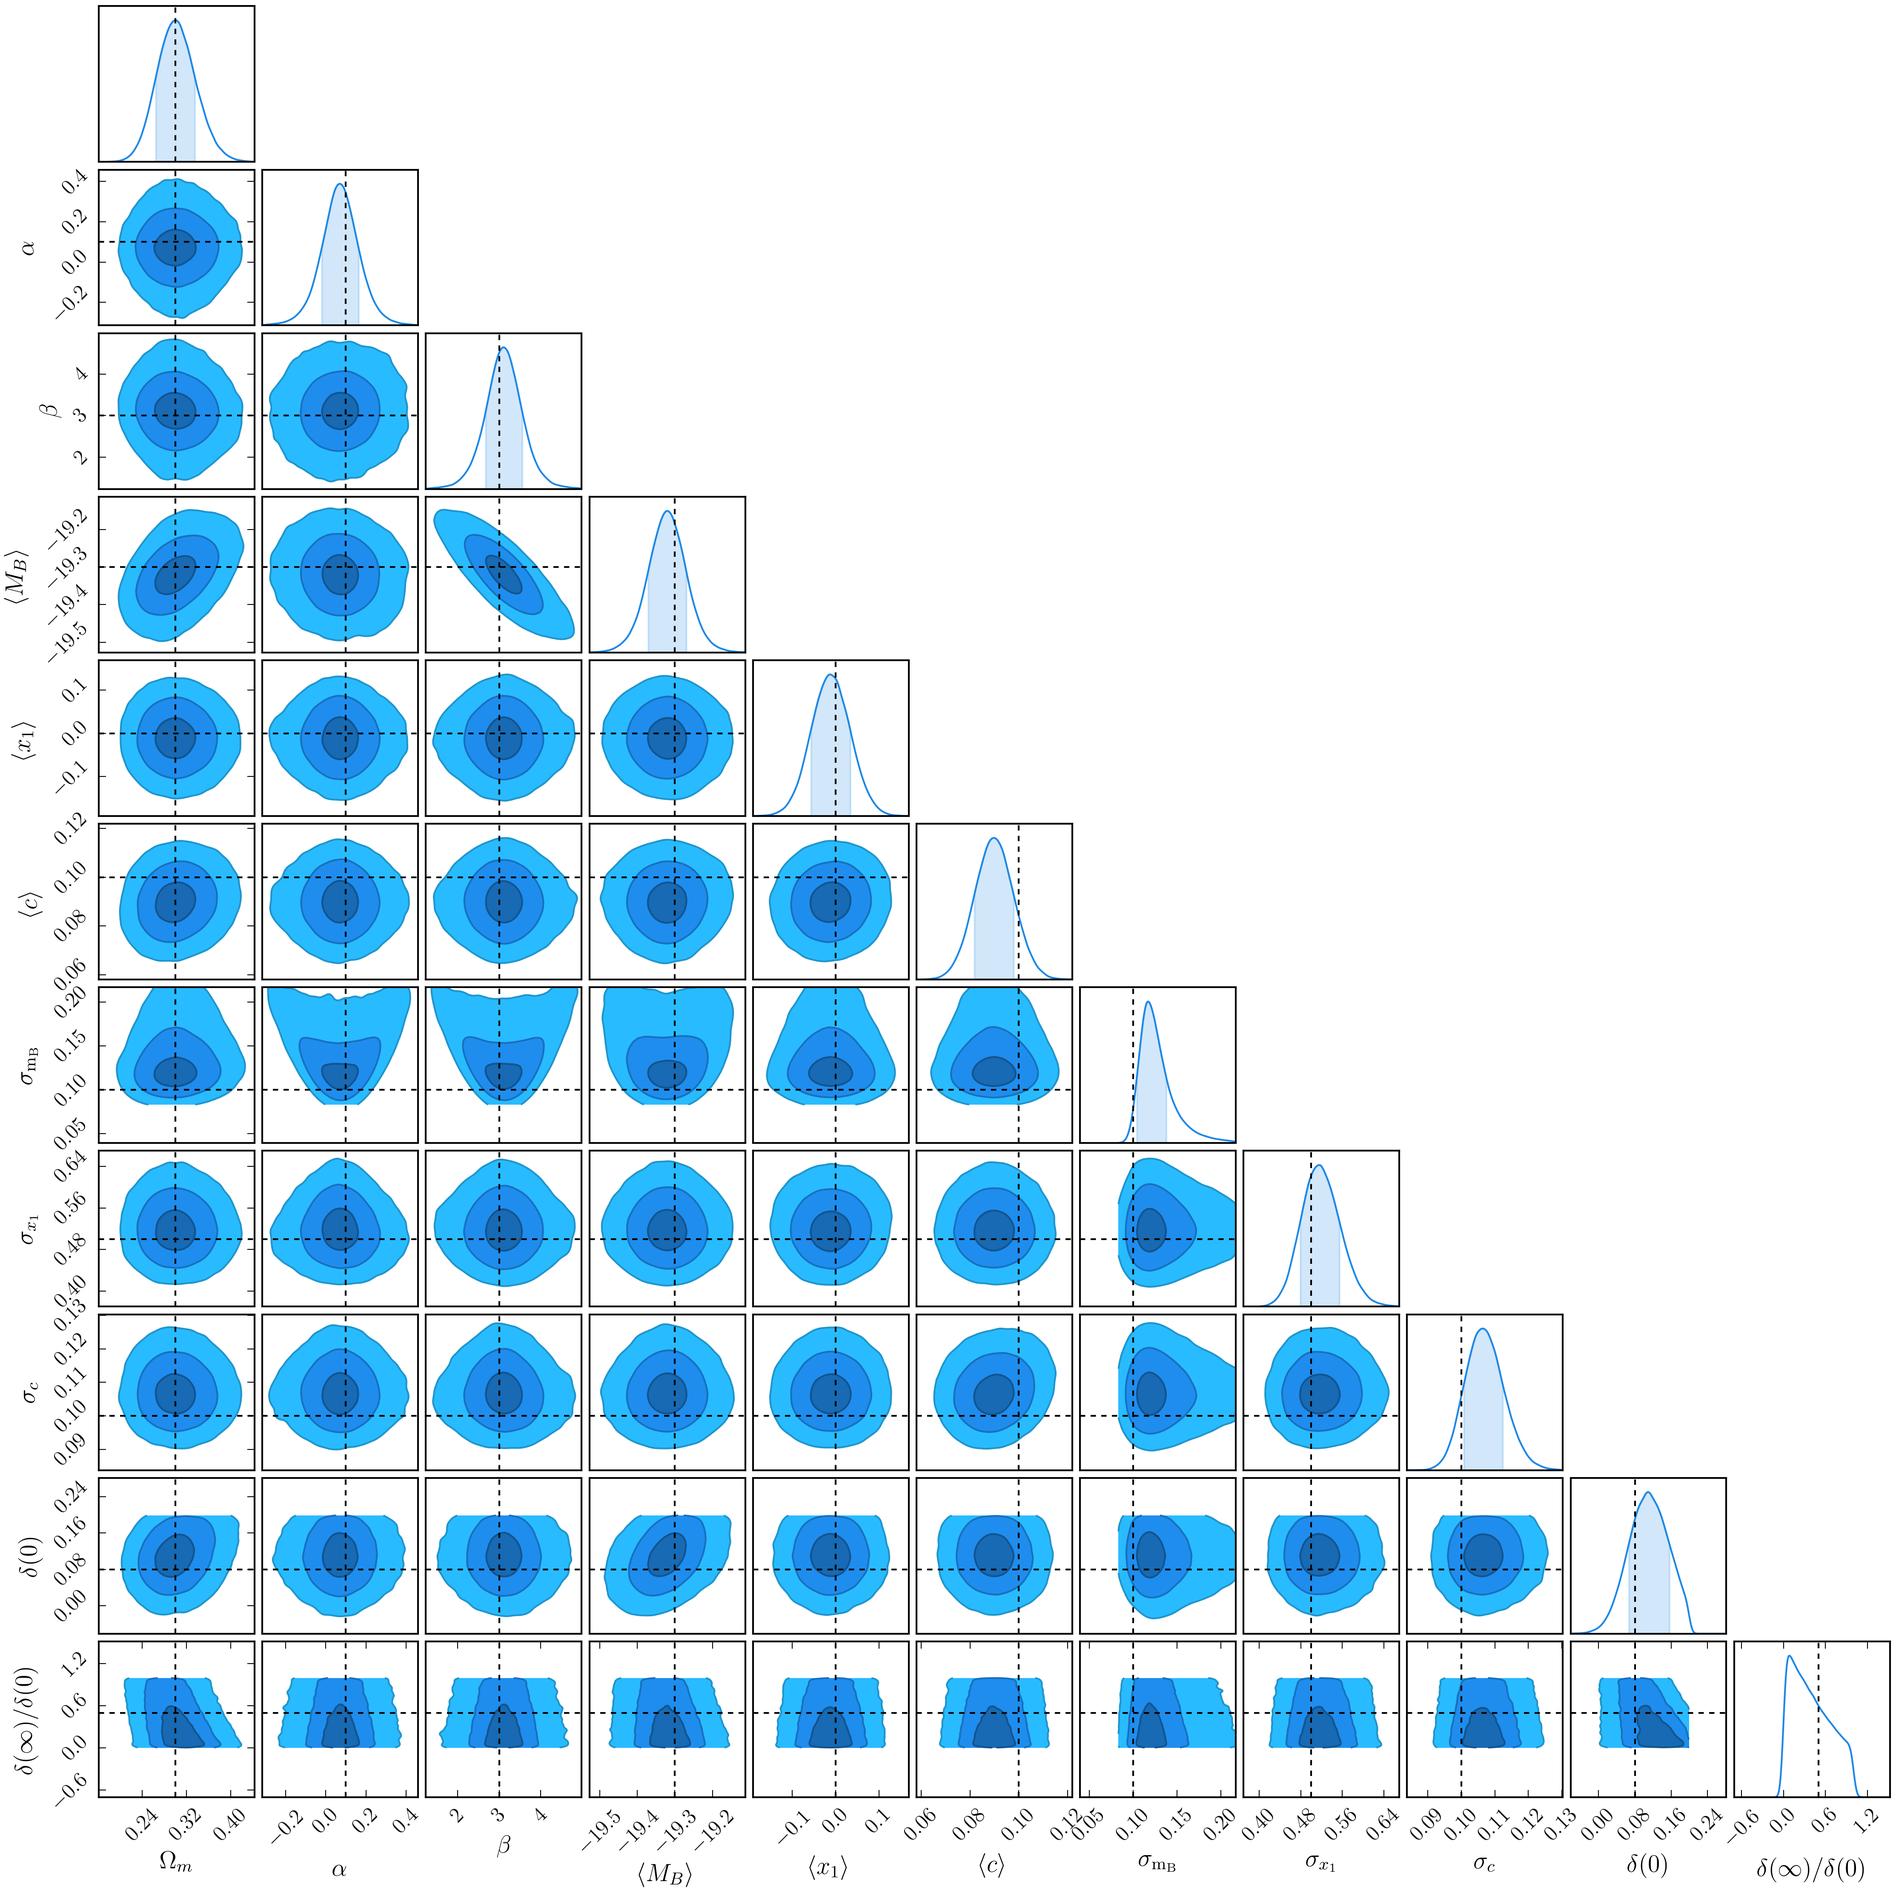
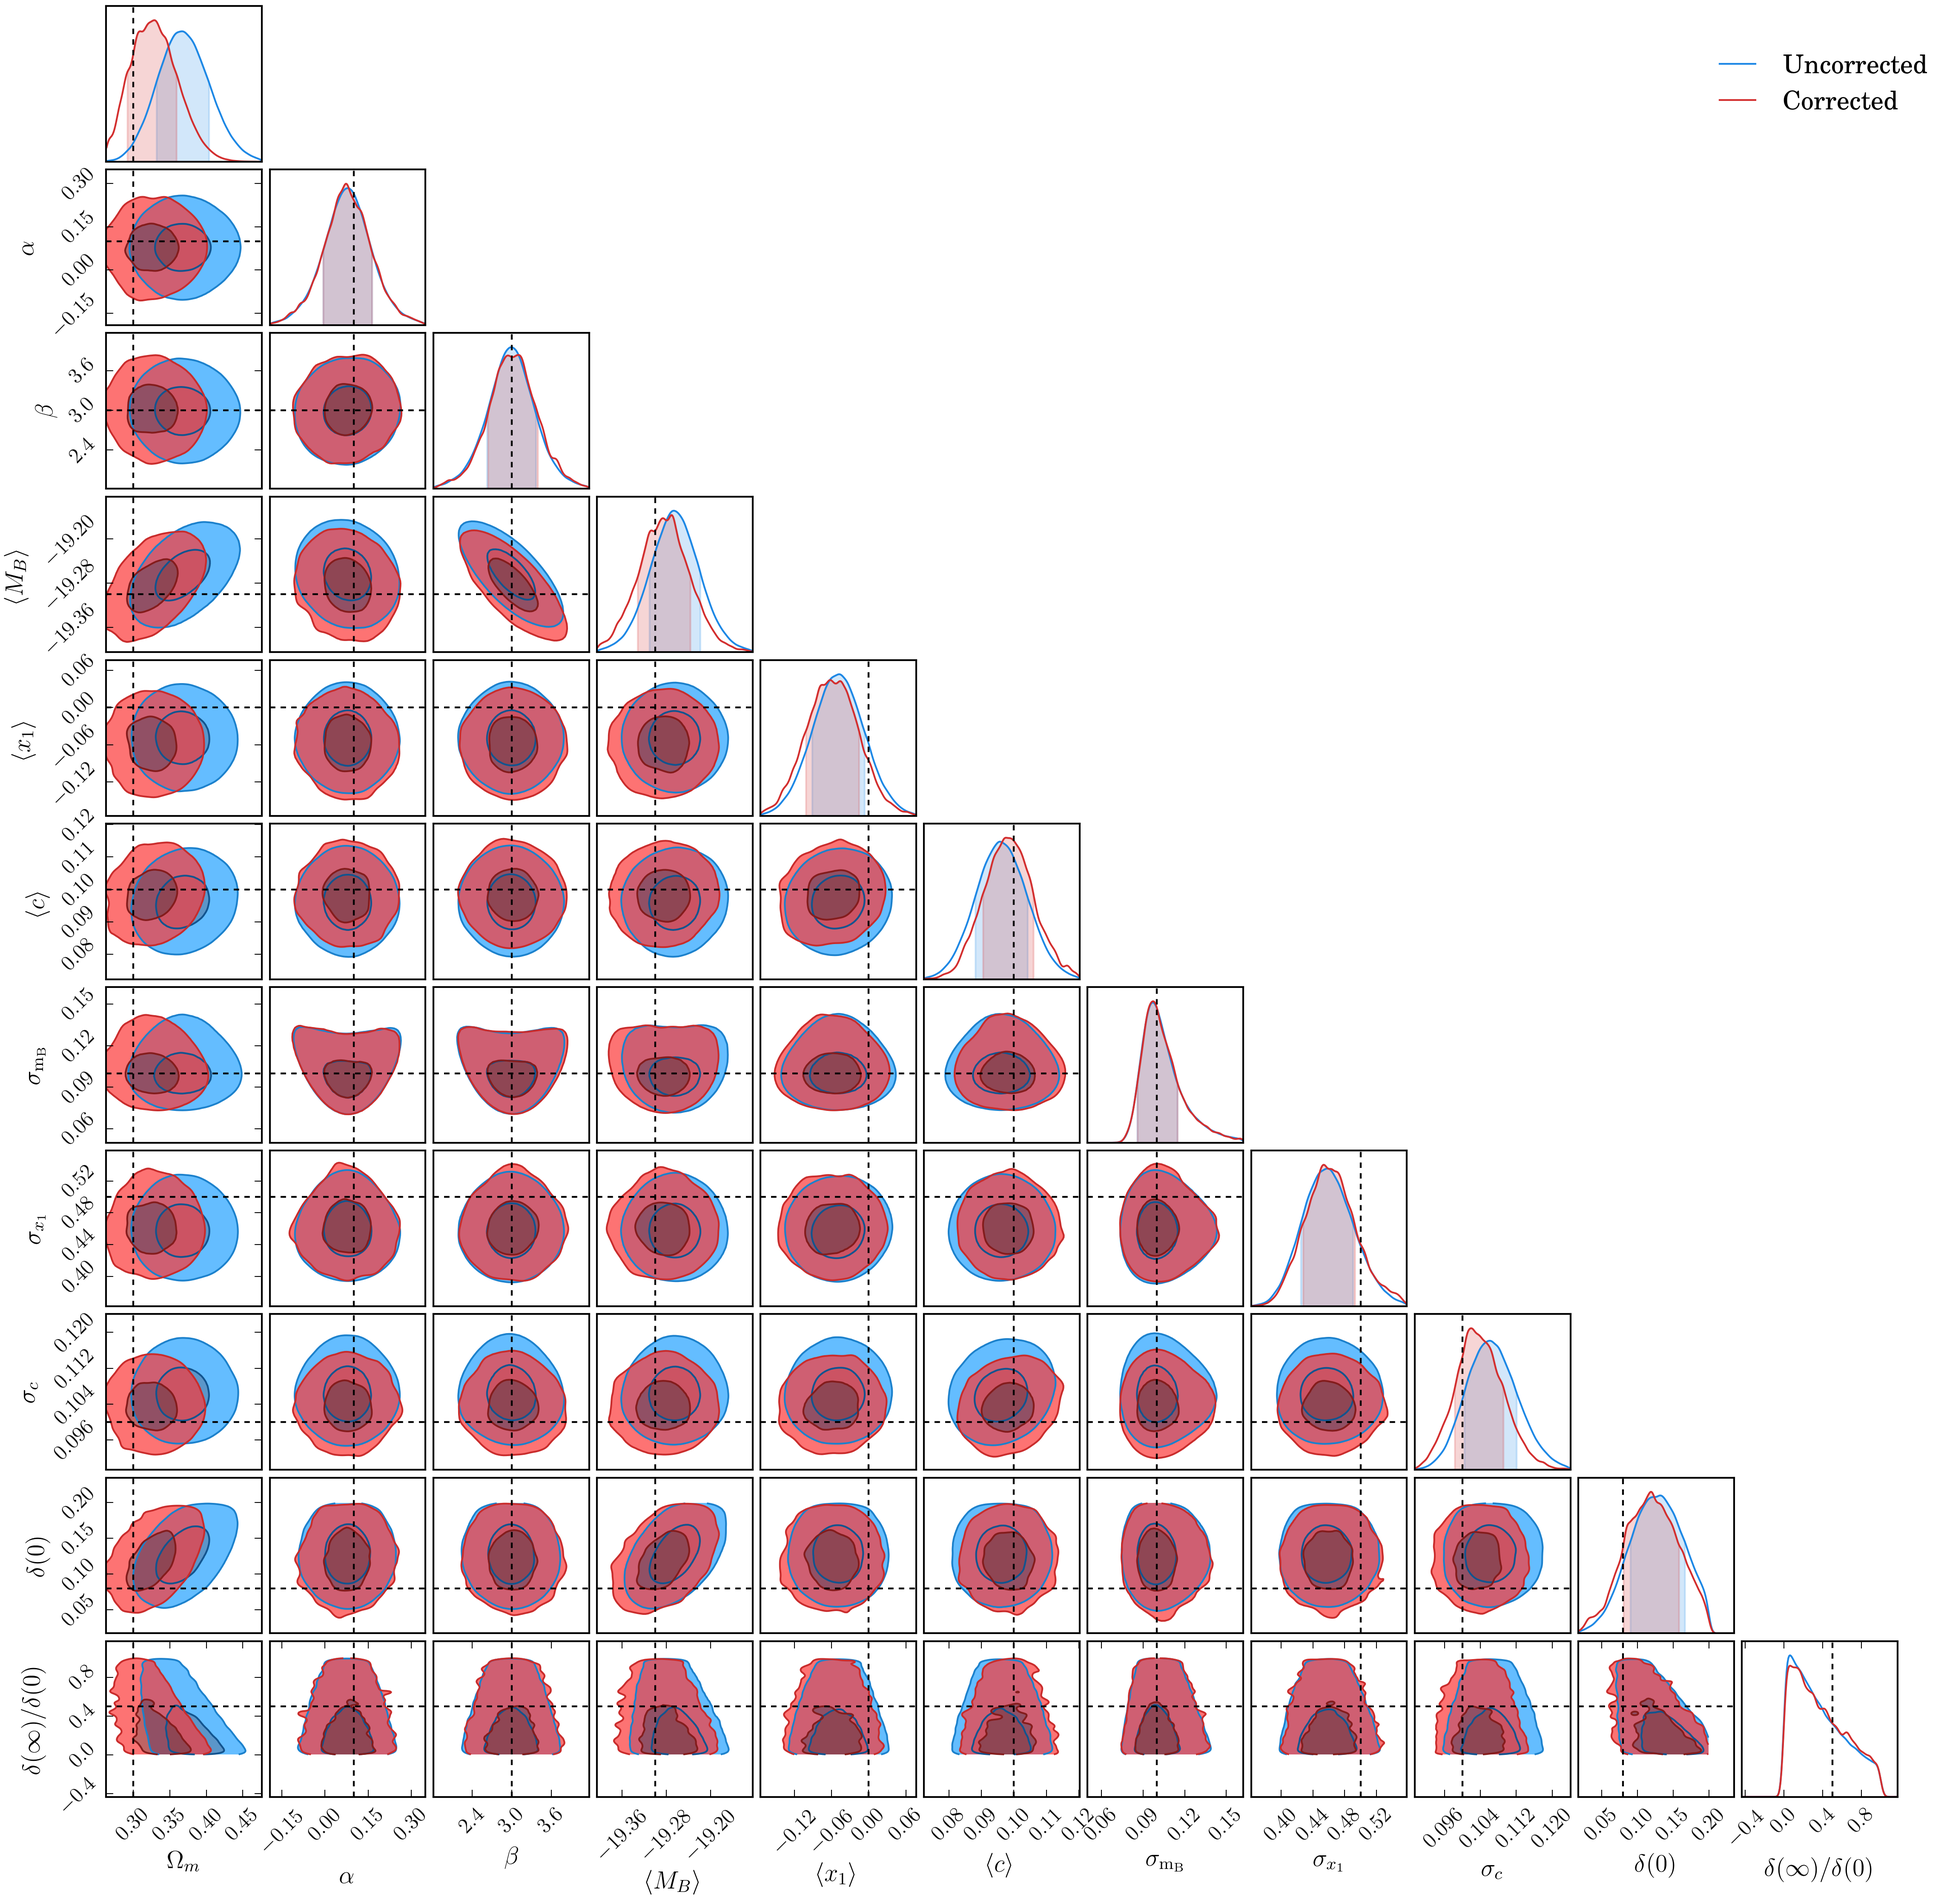
Updating for multiple cosmologies

Changed region(s): [[0.0, 0.0, 0.9987, 0.9987], [0.905, 0.0312, 0.9987, 0.0624]]

diff --git a/dessn/models/d_simple_stan/approx/load_multiple.py b/dessn/models/d_simple_stan/approx/load_multiple.py
@@ -44,7 +44,7 @@ def load_stan_from_folder(folder, replace=True):
     truths = {k[2]: k[1] for k in vals if not isinstance(k[2], list)}
 
     cs = {}
-    fs = [f for f in os.listdir(folder) if f.startswith("ston") and f.endswith(".pkl")]
+    fs = sorted([f for f in os.listdir(folder) if f.startswith("ston") and f.endswith(".pkl")])
     for f in fs:
         splits = f.split("_")
         c = splits[1]
@@ -54,7 +54,8 @@ def load_stan_from_folder(folder, replace=True):
         cs[c].append(get_chain(t, name_map, replace=replace))
     assert len(cs.keys()) > 0, "No results found"
     result = []
-    for k, chains in cs.items():
+    for k in sorted(list(cs.keys())):
+        chains = cs[k]
         chain = chains[0]
         for c in chains[1:]:
             for key in chain.keys():
@@ -83,9 +84,10 @@ if __name__ == "__main__":
     ls = []
     cs = []
     for i, (chain, posterior, truths, params, full_params, num_walks, bias, w) in enumerate(results):
+        if i == 5: continue
         print(w.mean(), w.max(), w.min())
-        c.add_chain(chain, posterior=posterior, walkers=num_walks, name="Uncorrected")
-        c.add_chain(chain, posterior=posterior, walkers=num_walks, weights=w, name="Corrected")
+        c.add_chain(chain, posterior=posterior, walkers=num_walks, name="Uncorrected %d" % i)
+        c.add_chain(chain, posterior=posterior, walkers=num_walks, weights=w, name="Corrected %d" % i)
         ls += ["-", ":"]
         cs += [c_all[i], c_all[i]]
     c.configure_general(linestyles=ls, colours=cs)

diff --git a/dessn/models/d_simple_stan/__init__.py b/dessn/models/d_simple_stan/__init__.py
@@ -347,8 +347,8 @@ frequency of observation, weather effects, etc. The selection effects we need to
         In blue we have the posterior surface for a likelihood that does not have any
         bias correction, and the red shows the same posterior after I have applied the
         :math:`w^-N` bias correction. Normalised to one, the mean weight of points
-        after resampling is :math:`0.001` (three times better than before),
-        with the minimum weighted point weighted at :math:`1.92706802135\times 10^{-09}`.
+        after resampling is :math:`0.001` (three times better than before). This is so
+        far the most promising technique.
 
 
 Given the concerns with the importance sampling methods, I also decided to implement
@@ -371,7 +371,7 @@ Current Concerns
 ~~~~~~~~~~~~~~~~
 
 1. Unsure how to fix STAN model with bias corrections inside. Cannot un-center those distributions more than they currently are.
-2. For the approximate correction method, :math:`\Omega_m` seems to be biased. But have a data size of 1. Will adapt code to check on multiple realisations.
+2. Need to ensure that my results are not just "Got lucky with the random number seed". Will rerun fits realising multiple cosmologies.
 
 
 """
